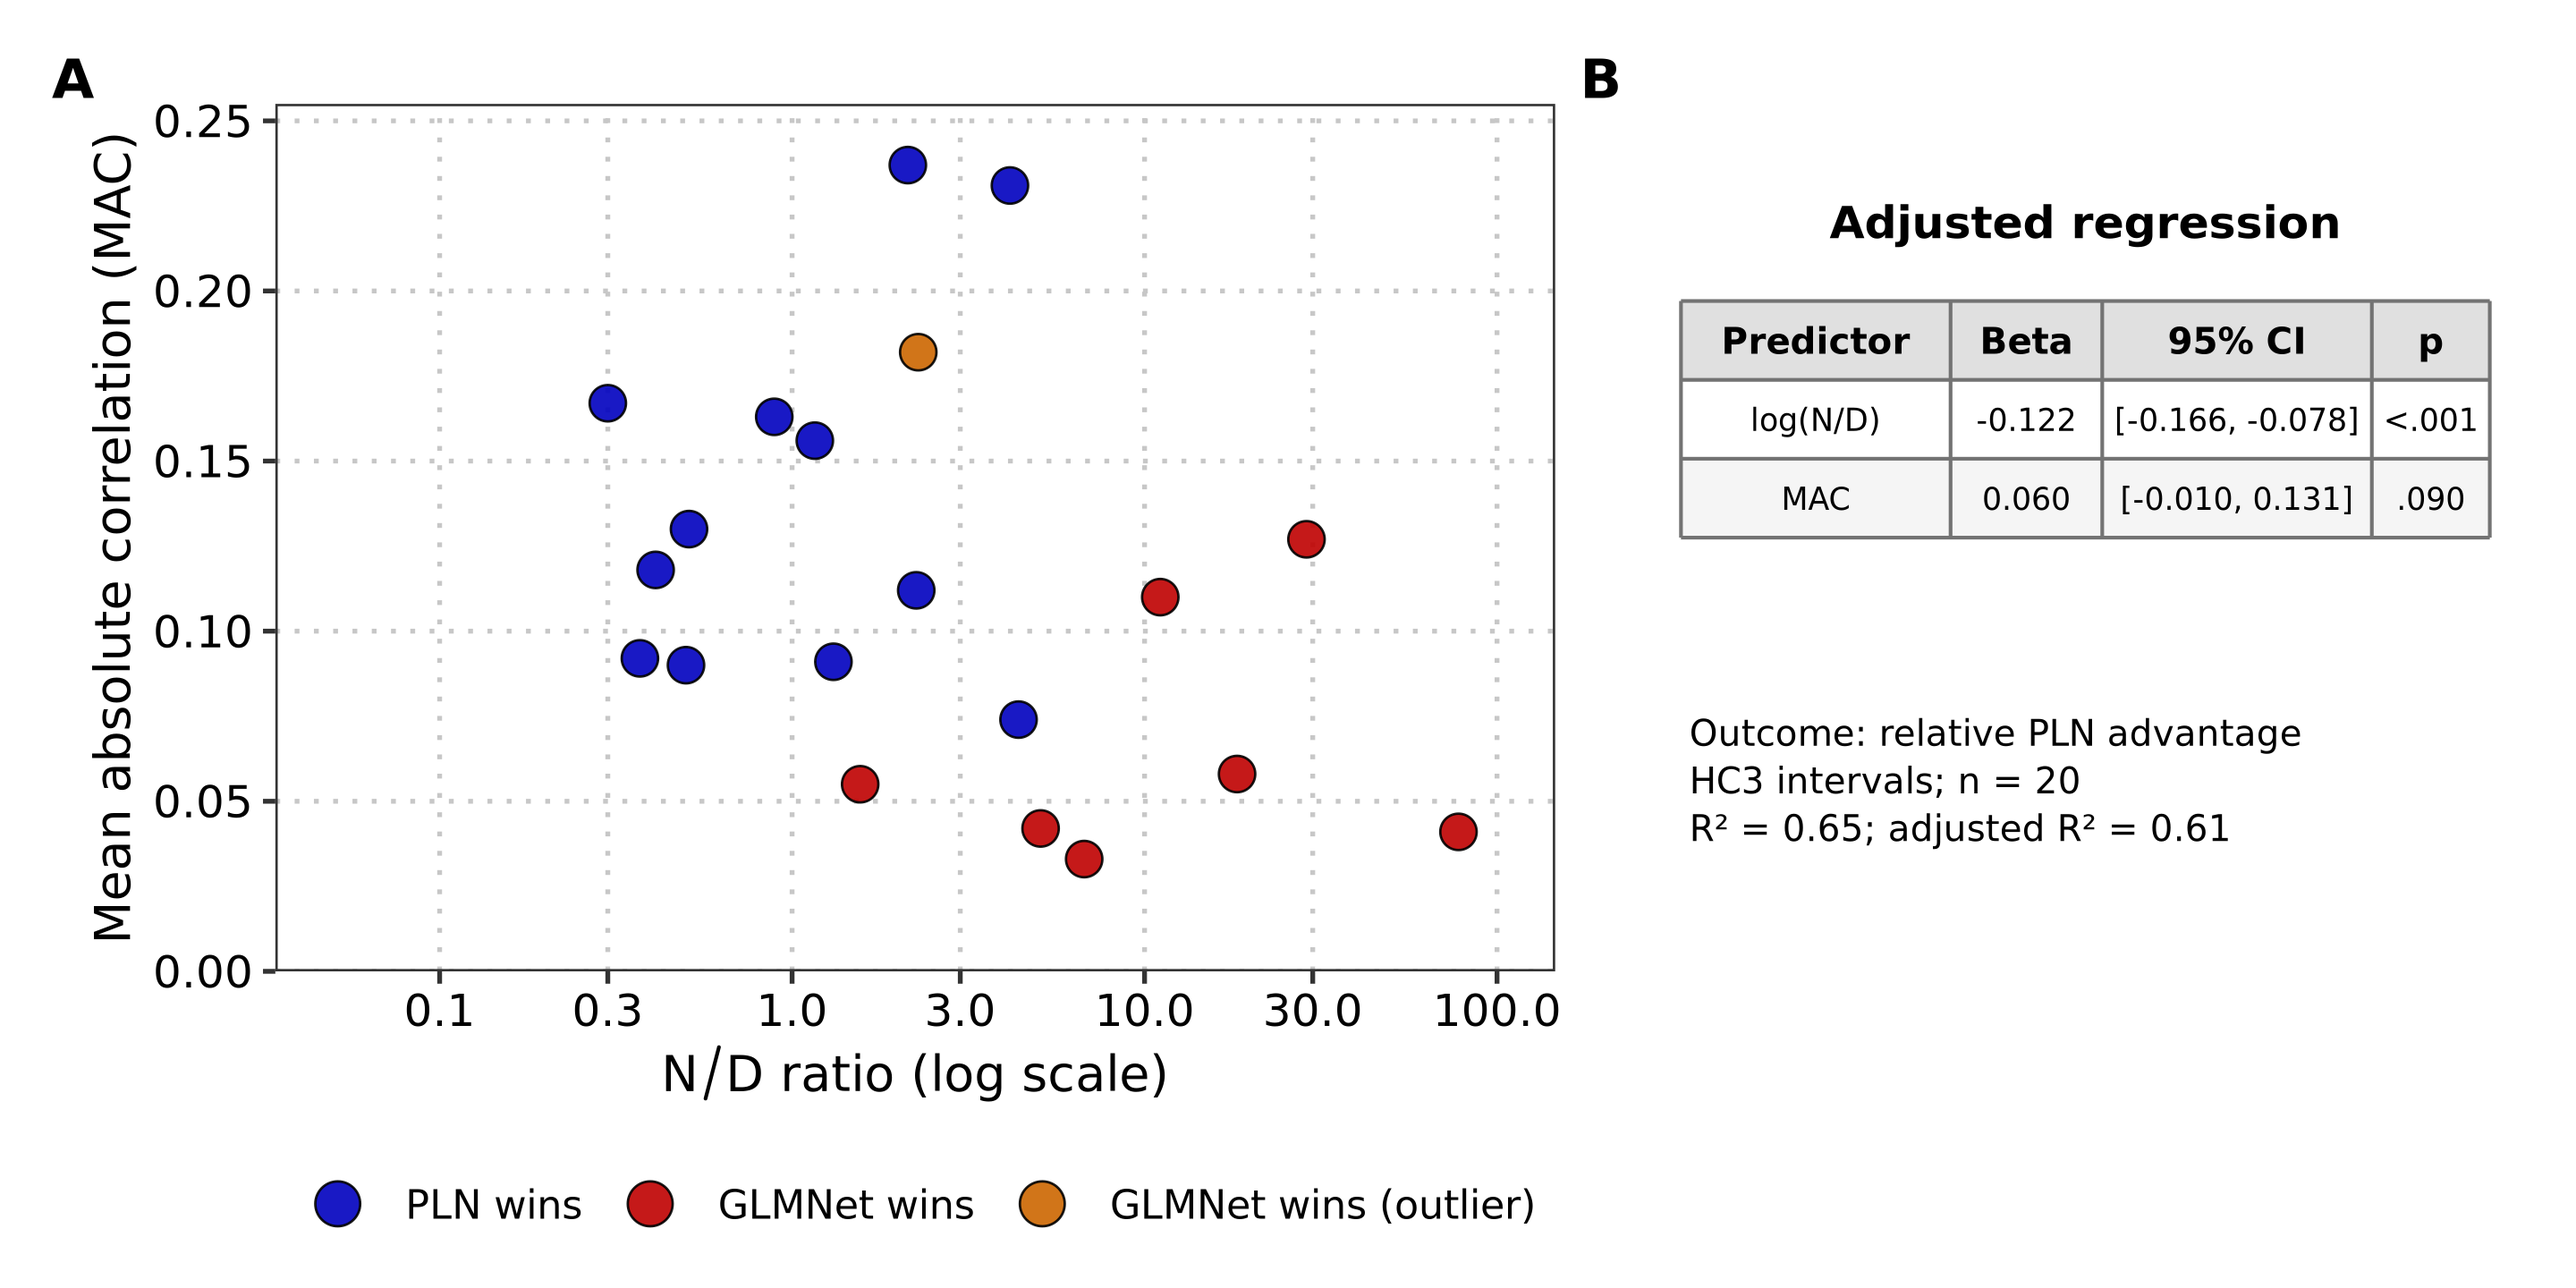
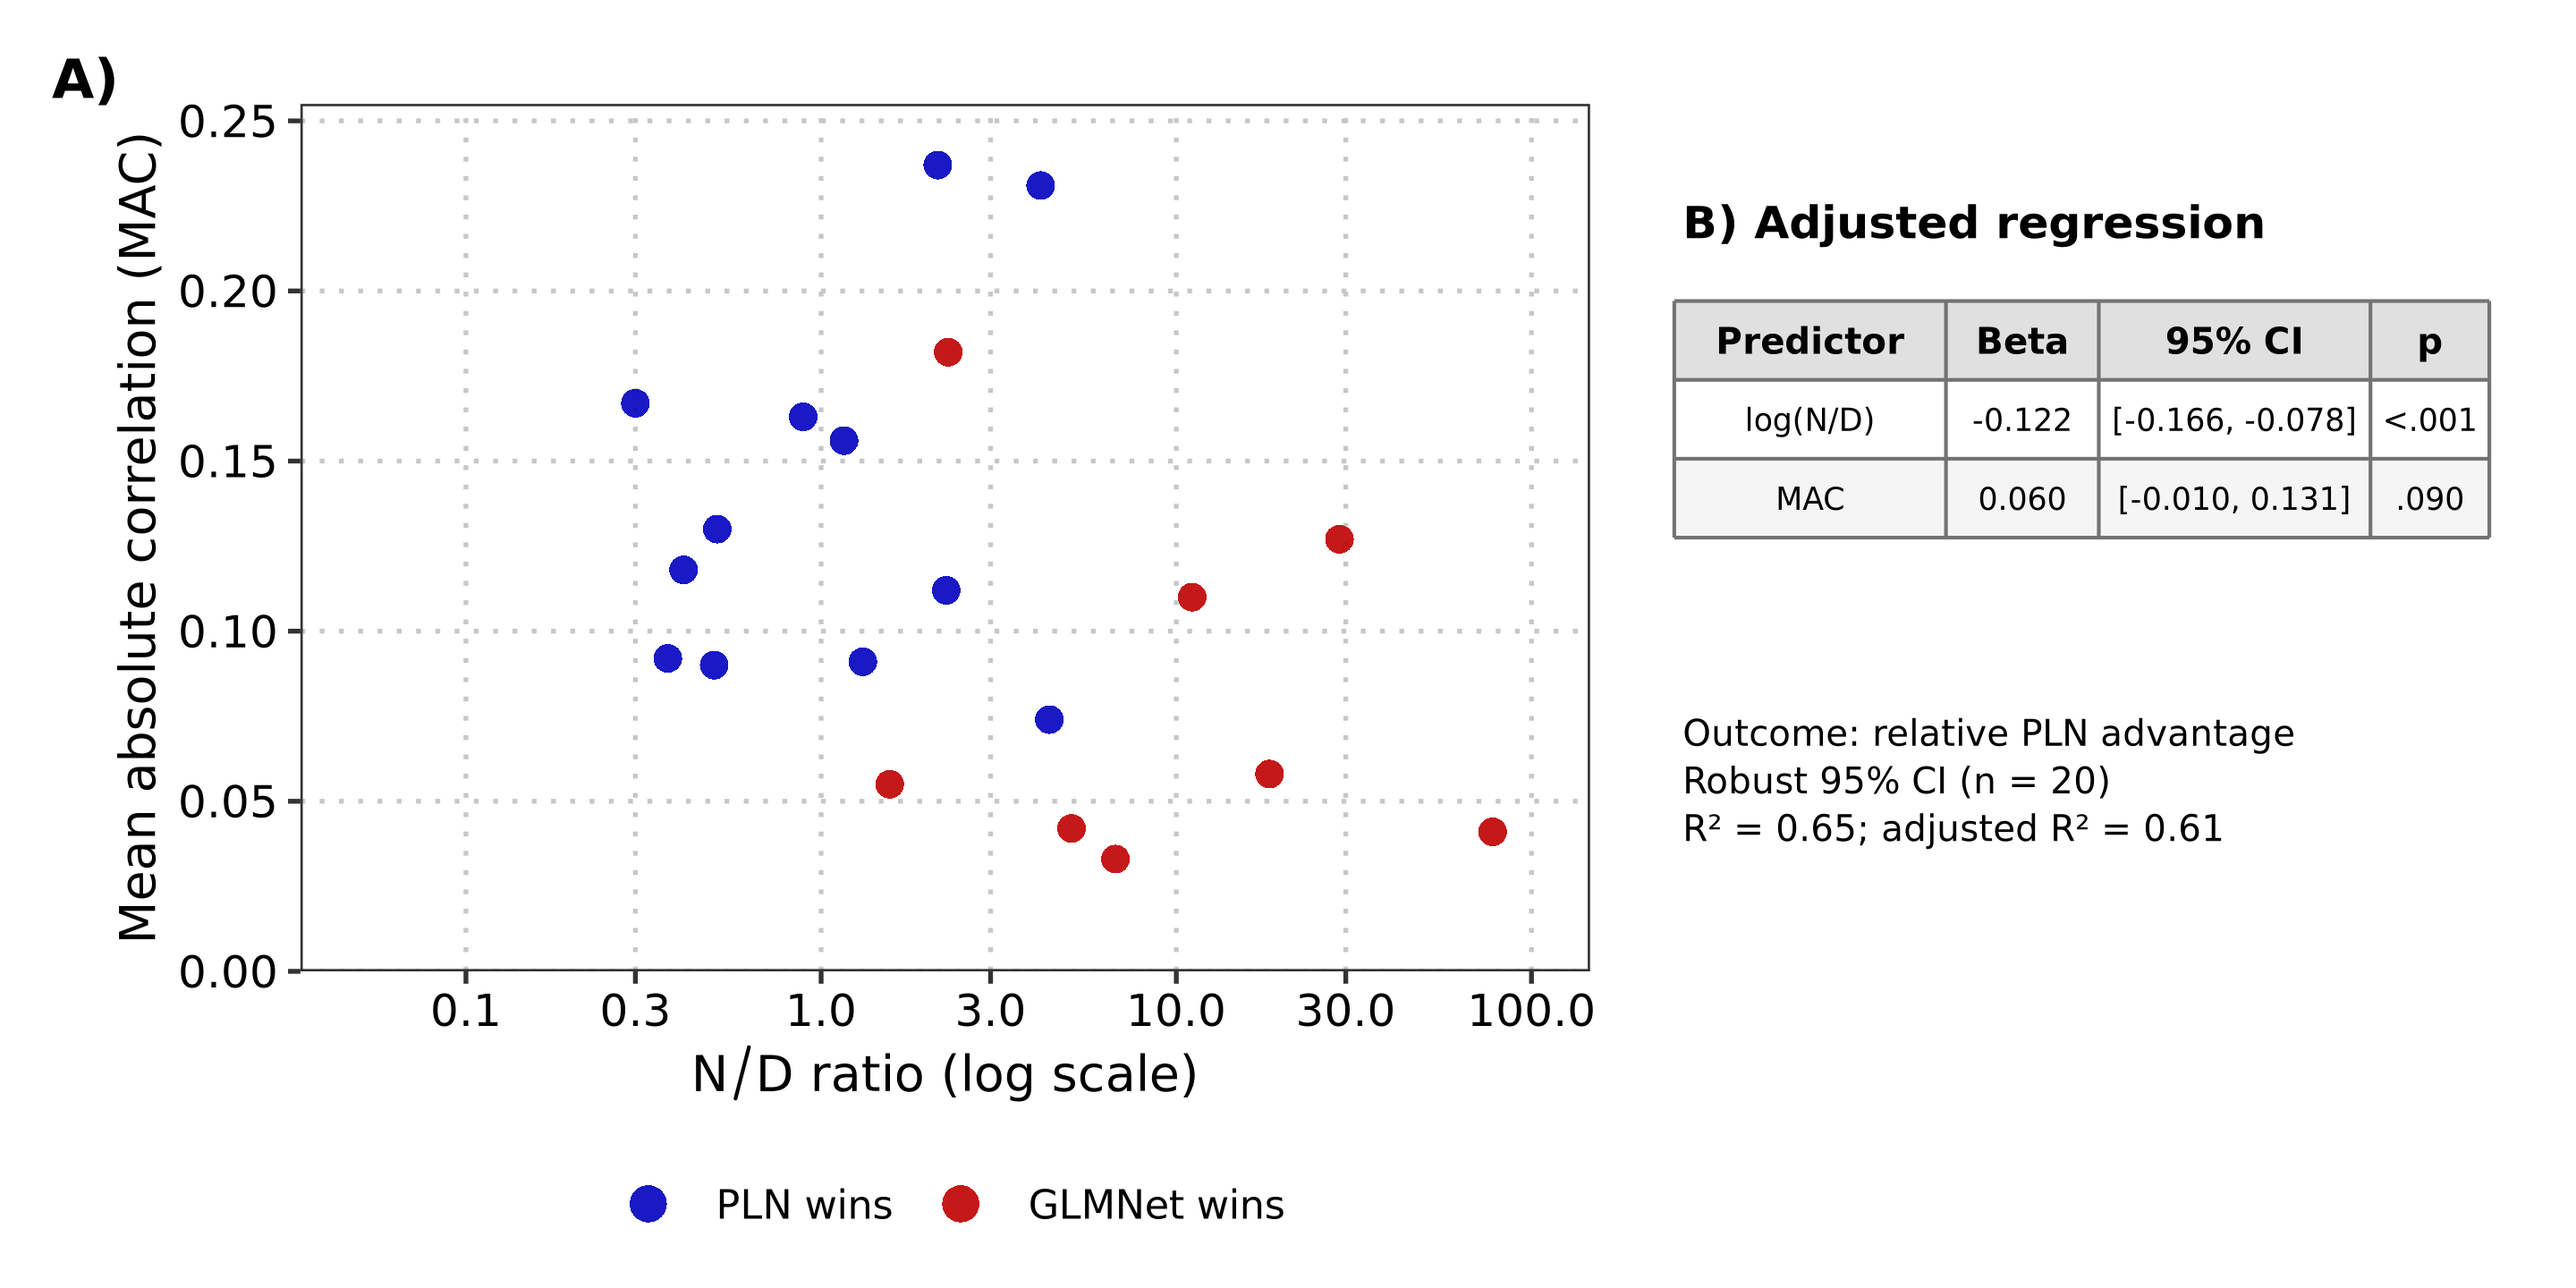
Update SPIEC-EASI fitting parameters and enhance output logging; add script for default job submission

diff --git a/paper/sagmb/main.tex b/paper/sagmb/main.tex
@@ -310,7 +310,7 @@ The estimated interaction graph is therefore
 
 SPIEC-EASI provides a network comparator designed for compositional microbiome data~\citep{Kurtz2015SPIECEASI}.
 We used its graphical-lasso implementation, which applies the package's centered log-ratio transformation and estimates a sparse inverse covariance matrix.
-We evaluated 50 penalty values with a minimum-to-maximum penalty ratio of 0.1 and selected the graph by StARS with 20 subsamples and an instability threshold of 0.05.
+We fit SPIEC-EASI using graphical lasso over 50 penalty values with a minimum-to-maximum penalty ratio of 0.05, followed by StARS selection with 20 subsamples and an instability threshold of 0.05.
 
 All PLN models were fit with variational inference using the \texttt{PLNmodels} package~\citep{Chiquet2021}.
 All penalized Poisson regressions were fit with \texttt{glmnet}~\citep{Friedman2010}.
@@ -363,6 +363,18 @@ For \texttt{GLMNet(Poisson)}, the regularization parameter $\lambda$ was selecte
 For PLN, the shrinkage parameter $\alpha$ was selected by 3-fold inner cross-validation on Poisson deviance.
 The featureless baseline serves as a lower bound: any algorithm with higher deviance than the featureless baseline provides no useful predictive signal.
 
+To quantify how dataset characteristics relate to comparative performance, we fitted an exploratory linear regression across the 20 retained datasets.
+For dataset $d$, the outcome was the relative PLN advantage
+\[
+A_d = \frac{D_{\mathrm{GLMNet},d}-D_{\mathrm{PLN},d}}
+{D_{\mathrm{GLMNet},d}},
+\]
+where positive values indicate lower deviance for PLN and negative values indicate lower deviance for \texttt{GLMNet(Poisson)}.
+The predictors were $\log(N_d/D_d)$ and MAC, each standardized to mean zero and unit variance before fitting.
+The resulting coefficient for each predictor therefore represents the expected change in relative PLN advantage for a one-standard-deviation increase in that predictor while holding the other predictor constant.
+We used HC3 heteroskedasticity-consistent standard errors for confidence intervals and $p$-values because the analysis contains only 20 heterogeneous datasets.
+The regression is intended to quantify associations within this benchmark rather than to define a universal decision rule or establish causal effects.
+
 \subsubsection{Network-inference evaluation}
 
 For network inference, estimated interaction graphs were compared against experimentally validated microbial interactions from five ground-truth datasets: PairInteraX~\citep{Zhu2025PairInteraX}, OMM12~\citep{Weiss2022OMM12}, OMM12 keystone 2023~\citep{Weiss2023Keystone}, butyrate assembly 2021~\citep{Clark2021Butyrate}, and host fitness 2018~\citep{Gould2018HostFitness}.
@@ -387,7 +399,7 @@ We report median wall time and peak memory across those repeated measurements.
 \centering
 \includegraphics[width=0.96\textwidth]{figure2_nd_mac}
 \caption{Dataset characteristics associated with relative count-prediction performance across the 20-dataset real-data benchmark.
-(A) Dataset-level winner as a function of $N/D$ and MAC. Blue circles indicate lower held-out Poisson deviance for PLN, red circles indicate lower deviance for \texttt{GLMNet(Poisson)}, and the orange circle marks American Gut~1 as a low-$N/D$, high-MAC outlier favoring GLMNet.
+(A) Dataset-level winner as a function of $N/D$ and MAC. Blue circles indicate lower held-out Poisson deviance for PLN, and red circles indicate lower deviance for \texttt{GLMNet(Poisson)}.
 (B) Exploratory linear regression of relative PLN advantage, $(D_{\mathrm{GLMNet}}-D_{\mathrm{PLN}})/D_{\mathrm{GLMNet}}$, on standardized $\log(N/D)$ and MAC.
 Coefficients represent the change in relative PLN advantage per one-standard-deviation increase in a predictor; intervals and $p$-values use HC3 standard errors.}
 \label{fig:nd_mac_scatter}
@@ -409,8 +421,9 @@ Overdispersion showed little marginal separation between winners.
 The median variance-to-mean index was 218.8 among PLN wins and 663.5 among \texttt{GLMNet(Poisson)} wins, and an exploratory rank-sum comparison on the log-transformed indices did not indicate a location shift ($p=0.67$).
 Thus, although PLN's latent Gaussian layer can represent extra-Poisson variation, overdispersion alone did not explain which method predicted better in these 20 datasets.
 
-We also fitted an exploratory dataset-level regression to quantify the joint contributions of these characteristics (Figure~\ref{fig:nd_mac_scatter}B).
+We also fitted an exploratory dataset-level regression to quantify the joint contributions of $N/D$ and MAC (Figure~\ref{fig:nd_mac_scatter}B).
 The outcome was relative PLN advantage, $(D_{\mathrm{GLMNet}}-D_{\mathrm{PLN}})/D_{\mathrm{GLMNet}}$, and the predictors were standardized $\log(N/D)$ and MAC.
+Here, ``adjusted'' means that the association for each predictor is estimated while holding the other predictor constant.
 The model explained 65\% of the between-dataset variation (adjusted $R^2=0.61$).
 The coefficient for $\log(N/D)$ was negative ($\beta=-0.122$, 95\% CI $[-0.166,\ -0.078]$; $p<0.001$), consistent with a declining PLN advantage as the sample-to-taxon ratio increased.
 MAC had a smaller positive coefficient ($\beta=0.060$, 95\% CI $[-0.010,\ 0.131]$; $p=0.090$).
@@ -526,7 +539,7 @@ All four occur in the experimental graph, but they represent only a small fracti
 The local and directional datasets tell a more nuanced story.
 On butyrate assembly 2021, PLNNetwork retains a modest advantage ($0.36 \pm 0.004$ versus $0.26 \pm 0.008$).
 On host fitness 2018, however, the ranking reverses and \texttt{GLMNet(Poisson)} achieves the best overall recovery ($0.95 \pm 0.00$ versus $0.80 \pm 0.03$).
-SPIEC-EASI selected substantially sparser graphs and had lower mean F1 than both Poisson-family methods on four datasets: OMM12 ($0.10 \pm 0.01$), OMM12 keystone 2023 ($0.12 \pm 0.01$), butyrate assembly 2021 ($0.04 \pm 0.005$), and host fitness 2018 ($0.07 \pm 0.02$).
+SPIEC-EASI selected substantially sparser graphs and had lower mean F1 than both Poisson-family methods on four datasets: OMM12 ($0.11 \pm 0.01$), OMM12 keystone 2023 ($0.11 \pm 0.01$), butyrate assembly 2021 ($0.04 \pm 0.005$), and host fitness 2018 ($0.07 \pm 0.02$).
 On PairInteraX, its mean F1 was $0.08 \pm 0.001$, slightly above \texttt{GLMNet(Poisson)} ($0.07 \pm 0.003$) but below PLNNetwork ($0.22 \pm 0.01$).
 Thus, explicitly compositional preprocessing did not by itself improve recovery of these experimental interaction sets under the selected sparse graph.
 This contrast is shown in Figure~S2 of the Supplementary Material.
